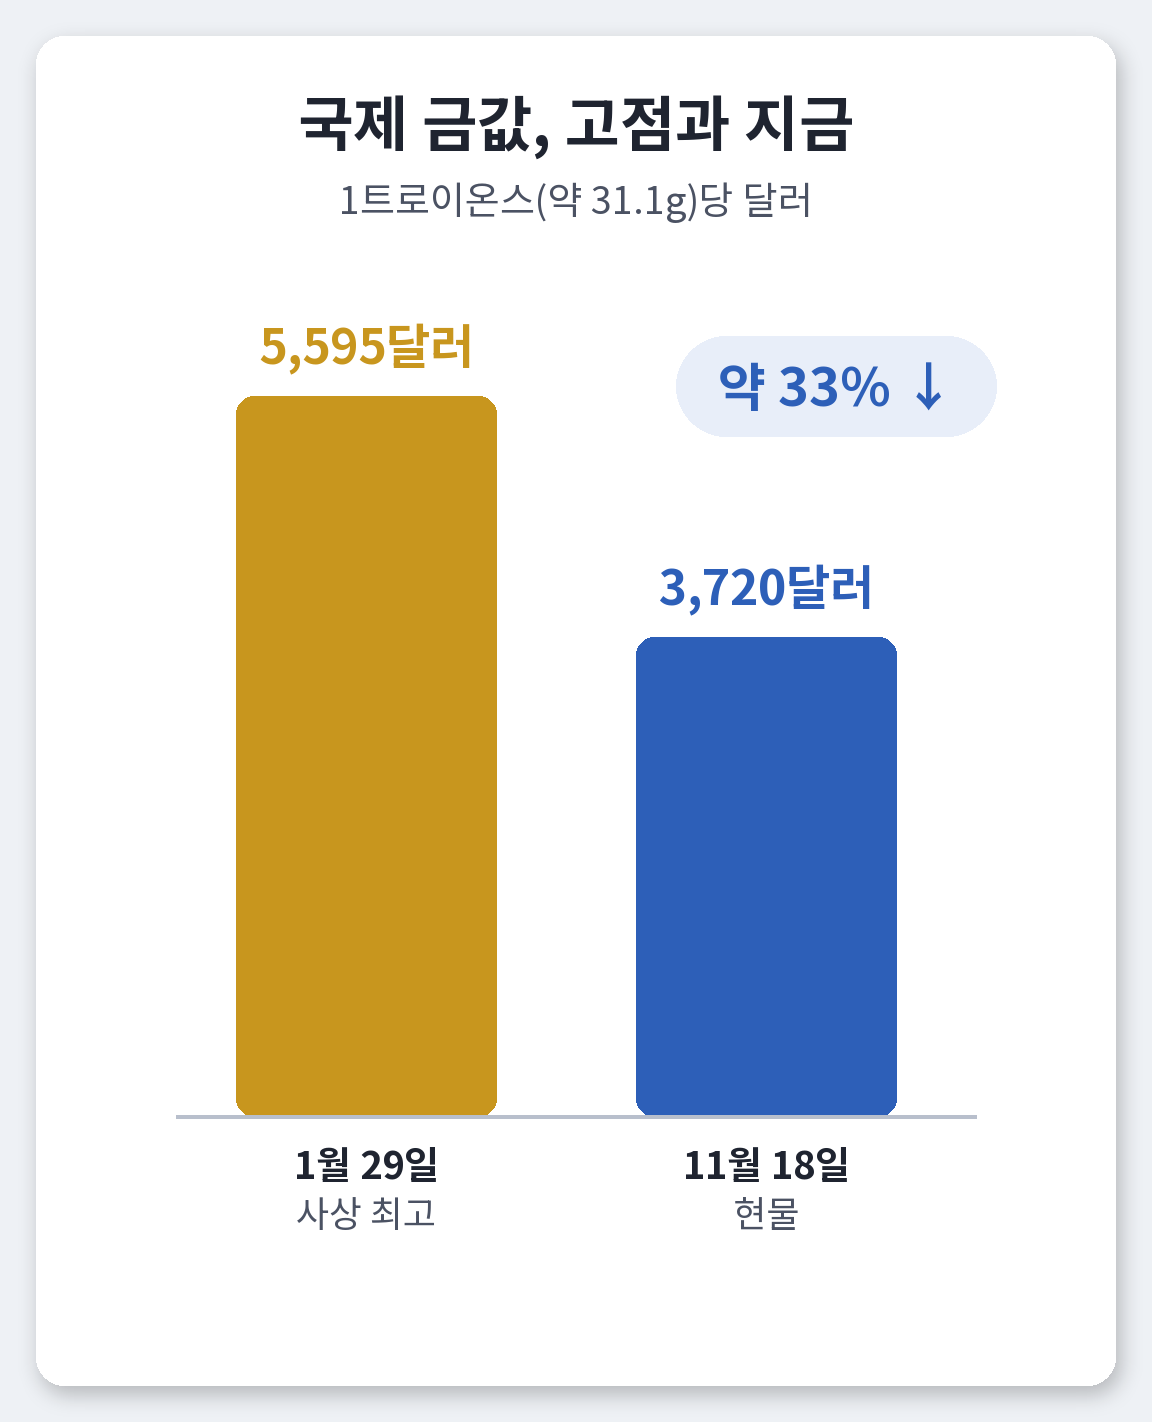
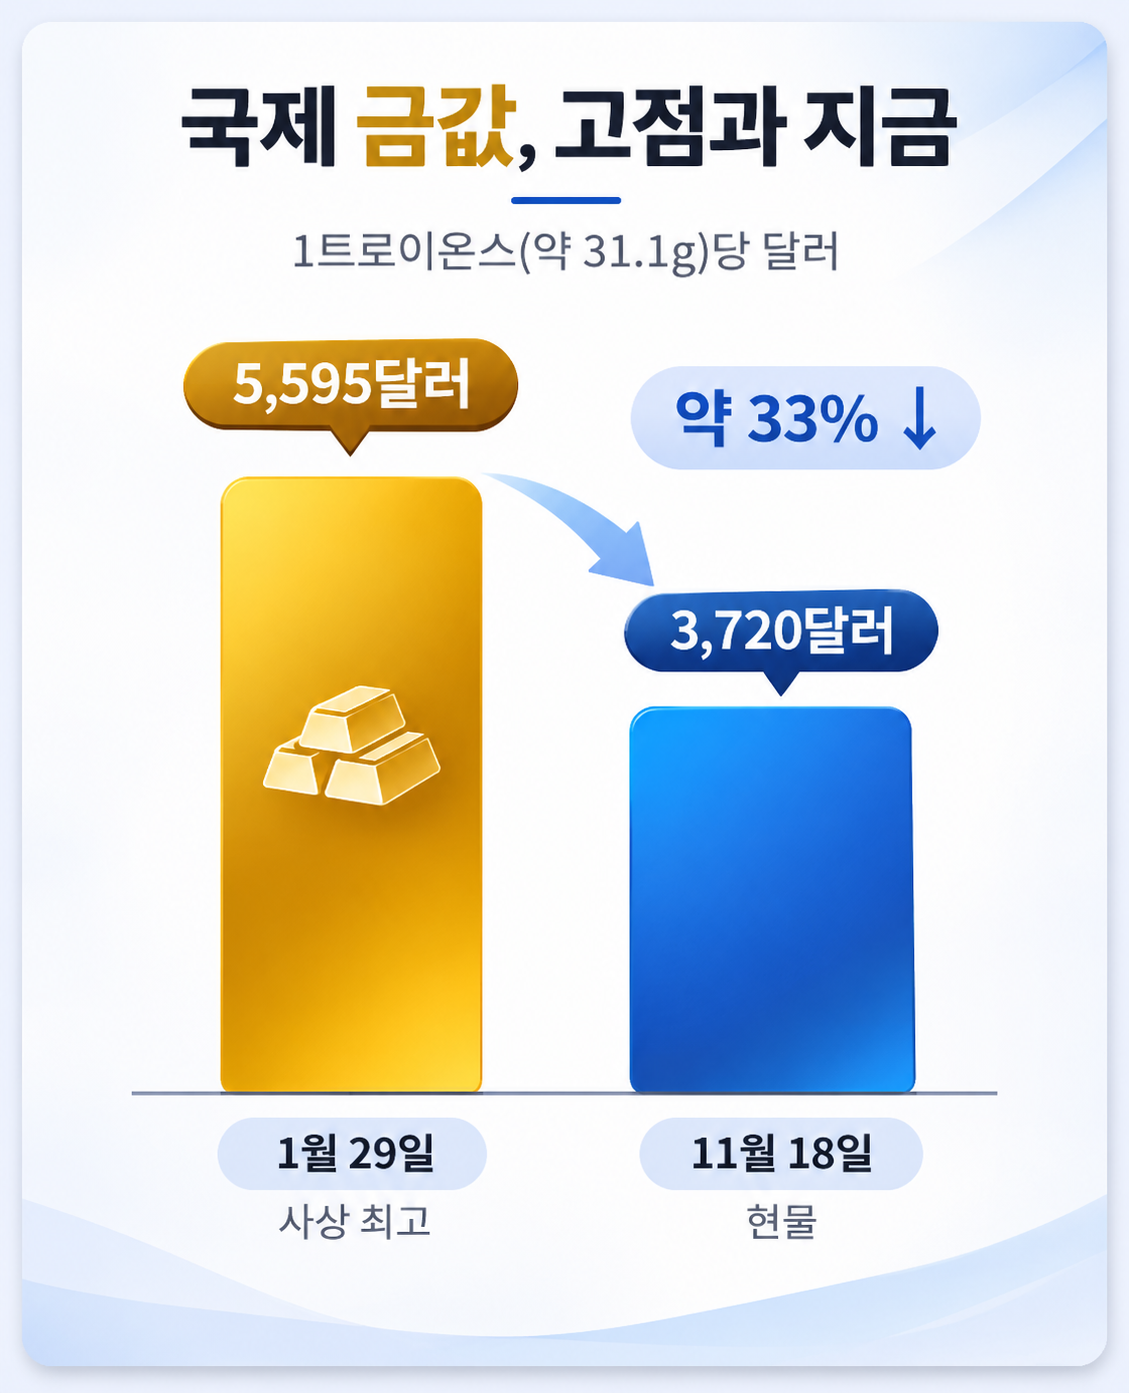
금값 글 02·04 이미지를 사용자 버전으로 교체, 이전 버전(_org) 보관

diff --git a/AGENTS.md b/AGENTS.md
@@ -183,7 +183,7 @@
   - 근거: **연준 10월 FOMC 의사록 원문**(federalreserve.gov, 11/18 공개: 3.75~4% 동결, 9월 인상, '거의 모든 참석자가 추가 인상이 적절할 가능성이 높다', '두어 명은 물가 지표가 나쁘면 다음 회의에서 0.25%p 초과 인상 검토 가능', 다음 회의 12월 8~9일), 기사 원문 4건(현물 3,720.20달러·COMEX 12월물 3,741.9달러 -3.2%, 2025년 9월 이후 최저, 1/29 최고 5,594.82달러 대비 30%+, 달러인덱스 103.7선, 미 10년물 5%대, 금리선물 12월 0.25%p 90~95%, KRX 한 돈 11/9 67만 388원 → 11/16 62만 2,875원, 금은방 살 때 71만·팔 때 62만 1,000원, 중앙은행 월 60톤, 은 고점 대비 60%+). **연준 FOMC 의사록·일정은 federalreserve.gov에서 내장 브라우저로 확인할 수 있다.**
   - 직접 계산: 3,720달러 × 1,333원 ÷ 8.29돈 ≈ 한 돈 약 60만 원(은행 고시 1g 16만 원×3.75와 맞음). 금 사는 방법별 세금(KRX 금시장 부가세·차익 비과세, 금통장·국내 금 ETF 배당소득세 15.4%)은 일반 지식(발행 메모에 추가 확인 필요 표시). 투자 권유 아님 문장, 기준일, 하락 파랑.
   - 2026-11-19 외부 검수 반영(아홉 가지): 하락률 '약 33%'로 통일, 미 10년물은 11/18 뉴욕 오후 3시 5.0660%로 '연 약 5.07%'(기준금리와 다른 지표), 의사록은 '참석자 판단 기록일 뿐 확정 결정 아님'(h3 '연준 안에서 추가 인상 의견이 많다'), 국제 금값×환율은 '이론적 환산 가격', 원화 강세를 반도체 수출과 직접 잇는 문장 삭제(원문 기사에 그런 분석이 있었다는 점은 사용자에게 알림), 실물 '10% 넘게 손해' → '손실이 생길 수 있음', 금 ETF는 국내 상장(기타 ETF 배당소득세)·해외 상장(양도소득세)·구조별 확인, 금통장은 배당소득 15.4%·금융소득종합과세 가능, 2028년은 한 투자은행의 전망. 이미지 03·06 문구도 고침. **경제 해설 글 기준**: '30% 넘게' 같은 어림 대신 계산한 값(약 33%)으로 본문·이미지를 통일한다. '5%대' 같은 시장 지표는 날짜·시각을 붙인 실제 값으로 쓴다. 회의 의사록의 '참석자 판단'을 기관의 확정 방침처럼 쓰지 않는다. 이론 계산값과 실제 거래 가격을 구분한다. 세금은 상품 유형별로 나눠 쓴다.
-  - 이미지 7장: AI 02 고점과 지금(4:5 막대, 하락 파랑)·03 이자 없는 금(4:5)·04 달러와 금 시소(1:1)·06 국내 금값 계산과 살 때·팔 때(4:5)·07 세 숫자(1:1)는 `images/`에 있다. ChatGPT 요청: 01 타이틀('금값 하락 / 왜 떨어질까?', 흐린 금고 배경, 파란 하락 화살표)·05 금은방 진열대 실사(3:2, 각인·간판 글자 없음). 05(골드바·반지·목걸이, 각인·간판·가격표 글자 없음, 사람 없음)는 1536×1024 → 1620×1080으로 적용했다. 01은 아랫줄 가로 약 79%·윗줄 약 74%로 70%를 넘어 다시 요청했다다시 받은 01(같은 디자인, 아랫줄 가로 약 65%·윗줄 약 60%로 70% 안, 글자 정확)을 1080px로 맞춰 적용하고 원본 둘 다 지웠다. 이미지 7장 완료, 대기 중인 요청 없음. 남은 일은 사용자의 네이버 발행뿐이다(늦어지면 시세를 다시 확인).
+  - 이미지 7장: AI 02 고점과 지금(4:5 막대, 하락 파랑)·03 이자 없는 금(4:5)·04 달러와 금 시소(1:1)·06 국내 금값 계산과 살 때·팔 때(4:5)·07 세 숫자(1:1)는 `images/`에 있다. ChatGPT 요청: 01 타이틀('금값 하락 / 왜 떨어질까?', 흐린 금고 배경, 파란 하락 화살표)·05 금은방 진열대 실사(3:2, 각인·간판 글자 없음). 05(골드바·반지·목걸이, 각인·간판·가격표 글자 없음, 사람 없음)는 1536×1024 → 1620×1080으로 적용했다. 01은 아랫줄 가로 약 79%·윗줄 약 74%로 70%를 넘어 다시 요청했다다시 받은 01(같은 디자인, 아랫줄 가로 약 65%·윗줄 약 60%로 70% 안, 글자 정확)을 1080px로 맞춰 적용하고 원본 둘 다 지웠다. 같은 날 사용자가 02 고점과 지금·04 달러와 금을 새 디자인으로 바꾸고 AI 버전을 `_org`로 남겼다(글자·숫자는 본문과 일치 확인). 04의 지폐는 실제 미국 100달러 지폐 도안(인물 초상)으로 보여 사용자에게 알렸다. 사용자 버전이 최종본이므로 다시 만들어 덮어쓰지 않는다. 이미지 7장 완료, 대기 중인 요청 없음. 남은 일은 사용자의 네이버 발행뿐이다(늦어지면 시세를 다시 확인).
 - 2026-11-19: `문서/네이버-코딩가이드/20261119_GTA6-출시/index.html` 작성("13년 만에 나온 GTA6, 출시일에 연차까지 내는 이유", 카테고리 컴퓨터·IT, 검수 반영 후 공백 포함 4,146자). 첫 추천 5개를 사용자가 '다른 것'이라고 해서 구글 인기 검색어·다음 뉴스로 다시 고른 5개 중 1번. 11/19~20 발행.
   - **모바일 우선·본문 16px 기준을 처음부터 적용한 첫 글**: 도식 5장 모두 1,080px(4:5 네 장, 1:1 한 장), 글자 36px 이상, 문단 2~3문장, 문단·목록·이미지 표시에 16px. 타이틀은 첫 문장 한 줄 뒤에 둠.
   - 근거: **락스타 공식 GTA VI 페이지**(11/19 출시, PS5·엑스박스 시리즈 X|S, 리오나이다·바이스 시티, 제이슨·루시아, PC 없음), 기사 원문 6건(센서타워 예약 1,588만 장·15억 4,000만 달러, 메타크리틱 99점, 가격 79.99/99.99달러, 연기한 게임들, 뉴주 콘솔 전망, 넷플릭스 플레이 영상, GCRB 심의 3:3 → 연기 두 번 → 8:1 10/16 청소년이용불가, PEGI 18·CERO Z). 출시 연기 이력·2023.12 첫 예고편은 일반 지식(발행 메모에 표시). 국내 원화 가격·용량은 확인 못 해 쓰지 않음. 폭력·선정 장면은 구체적으로 쓰지 않음. 국내 게임사 이름(엔씨·시프트업)은 본문에서 '한 대형 게임사'로.
